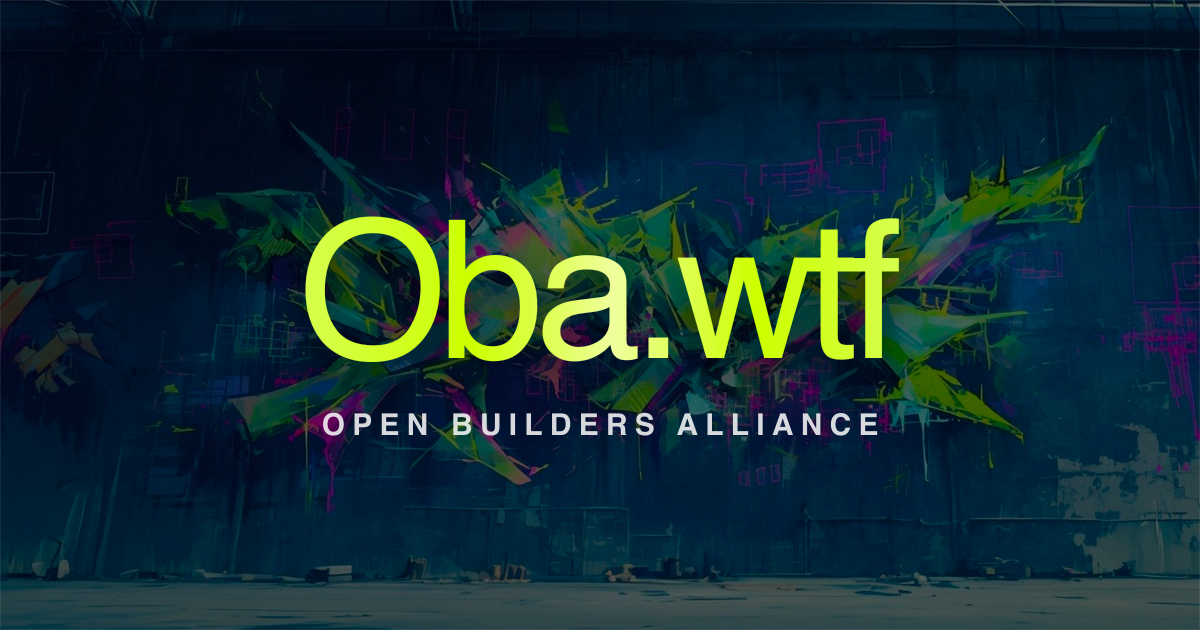
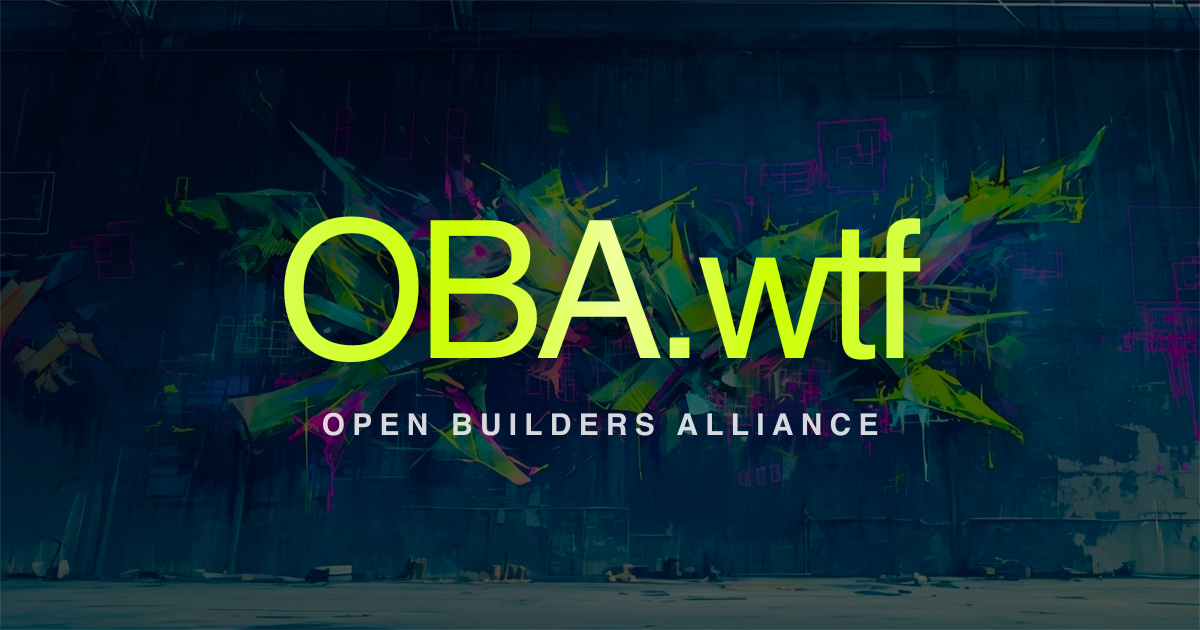
Change hero title to OBA.wtf

Changed region(s): [[0.2158, 0.3317, 0.7708, 0.573]]

diff --git a/src/components/Hero.tsx b/src/components/Hero.tsx
@@ -193,7 +193,7 @@ export default function Hero() {
             animate={{ opacity: 1, filter: "blur(0px)", scale: 1 }}
             transition={{ delay: 0.28, duration: 1.2, ease: "easeOut" }}
           >
-            <span className="hero-logo-gradient">Oba.wtf</span>
+            <span className="hero-logo-gradient">OBA.wtf</span>
           </motion.h1>
 
           <motion.div
